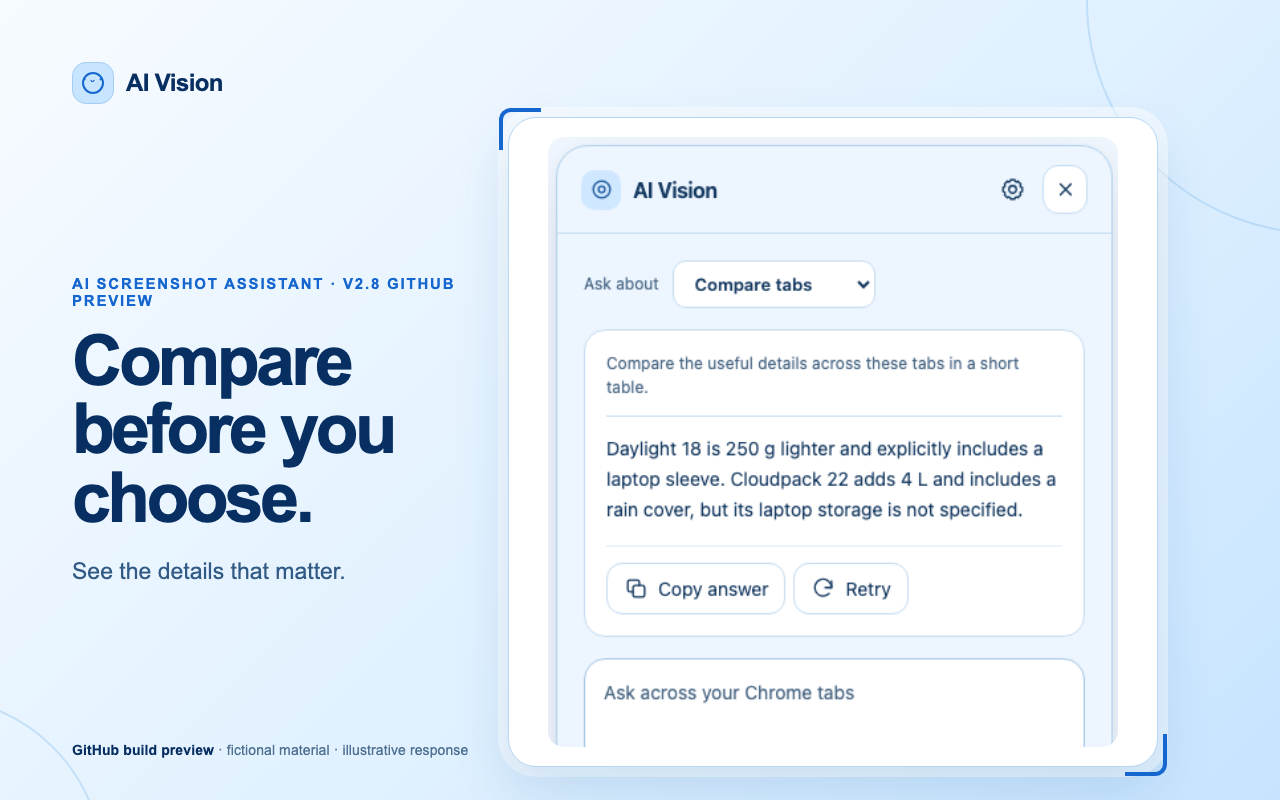
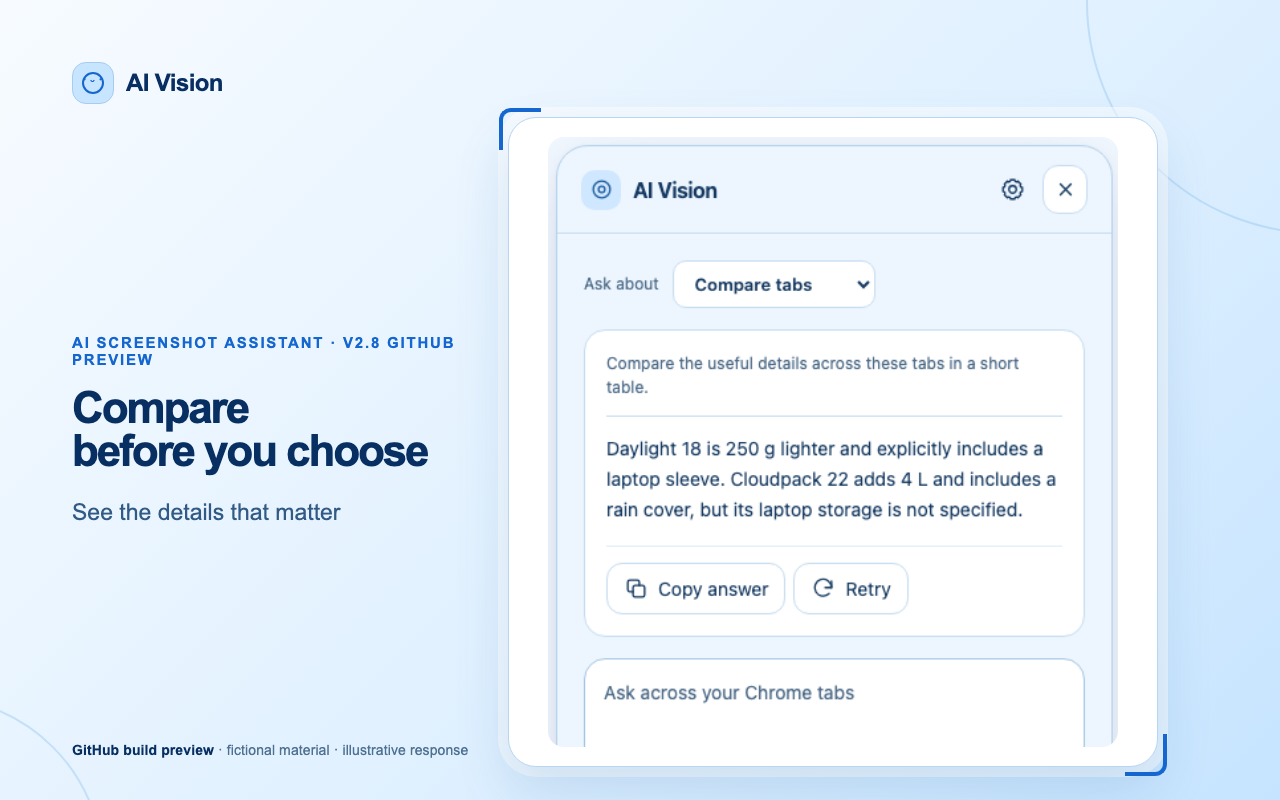
Clean v2.8 artwork headlines (#17)

Changed region(s): [[0.0312, 0.3438, 0.3438, 0.6562], [0.0625, 0.6875, 0.2812, 0.75]]

diff --git a/release-assets-v2.8/store-artwork.html b/release-assets-v2.8/store-artwork.html
@@ -83,6 +83,20 @@
       z-index: 1;
     }
     .copy { align-self: center; padding-bottom: 22px; }
+    .copy h1.compact-title {
+      font-size: 58px;
+      letter-spacing: -2.8px;
+    }
+    .copy h1.compact-title.title-5 {
+      max-width: 430px;
+      font-size: 50px;
+      letter-spacing: -2.4px;
+    }
+    .copy h1.compact-title.title-4 {
+      max-width: 450px;
+      font-size: 44px;
+      letter-spacing: -2.1px;
+    }
     .eyebrow {
       margin: 0 0 18px;
       color: var(--cobalt);
@@ -170,7 +184,7 @@
     .promo-copy { position: relative; z-index: 1; max-width: 520px; }
     .promo .brand { color: #fff; margin-bottom: 48px; }
     .promo .lens-mark { background: #ffffff2b; border-color: #ffffff77; color: #fff; }
-    .promo h2 { margin: 0; max-width: 510px; font-size: 72px; line-height: .98; letter-spacing: -3px; }
+    .promo h2 { margin: 0; max-width: 540px; font-size: 60px; line-height: .98; letter-spacing: -2.8px; }
     .promo p { margin: 22px 0 0; font-size: 23px; line-height: 1.35; color: #eff8ff; }
     .promo-small {
       width: 440px;
@@ -196,19 +210,21 @@
     const slide = params.get('slide') || '1';
     const promo = params.get('promo');
     const source = {
-      '1': { title: 'Select it.\nUnderstand it.', subline: 'A clear answer, then a follow-up.', image: 'source/extension-answer.png' },
-      '2': { title: 'Turn images\ninto text.', subline: 'Readable text you can copy.', image: 'source/extension-text-extraction.png' },
-      '3': { title: 'Get the\nmain points.', subline: 'A short summary beside the page.', image: 'source/extension-page.png' },
-      '4': { title: 'Compare before\nyou choose.', subline: 'See the details that matter.', image: 'source/extension-tabs.png' },
-      '5': { title: 'Your key.\nYour first answer.', subline: 'Save once, then start with a screenshot.', image: 'source/extension-key-setup.png' }
+      '1': { title: 'Select it\nUnderstand it', subline: 'A clear answer then a follow-up', image: 'source/extension-answer.png' },
+      '2': { title: 'Turn images\ninto text', subline: 'Readable text you can copy', image: 'source/extension-text-extraction.png' },
+      '3': { title: 'Get the\nmain points', subline: 'A short summary beside the page', image: 'source/extension-page.png' },
+      '4': { title: 'Compare\nbefore you choose', subline: 'See the details that matter', image: 'source/extension-tabs.png' },
+      '5': { title: 'Your key\nYour first answer', subline: 'Save once then start with a screenshot', image: 'source/extension-key-setup.png' }
     };
     const root = document.querySelector('#art');
     if (promo === 'marquee' || promo === 'small') {
       root.className = `promo ${promo === 'small' ? 'promo-small' : ''}`;
-      root.innerHTML = `<div class="promo-copy"><div class="brand"><span class="lens-mark" aria-hidden="true"></span><span>AI Vision</span></div><h2>${promo === 'small' ? 'See it.\nAsk it.' : 'Understand what\'s\nin front of you.'}</h2><p>${promo === 'small' ? 'A friendly screenshot assistant for Chrome.' : 'Select a screenshot, ask Gemini, and keep moving.'}</p></div>`;
+      const promoTitle = promo === 'small' ? 'See it\nAsk it' : 'Understand what\'s\nin front of you';
+      root.innerHTML = `<div class="promo-copy"><div class="brand"><span class="lens-mark" aria-hidden="true"></span><span>AI Vision</span></div><h2>${promoTitle.replaceAll(/\n/g, '<br>')}</h2><p>${promo === 'small' ? 'A friendly screenshot assistant for Chrome' : 'Select a screenshot, ask Gemini, and keep moving'}</p></div>`;
     } else {
       const card = source[slide] || source['1'];
-      root.innerHTML = `<div class="brand"><span class="lens-mark" aria-hidden="true"></span><span>AI Vision</span></div><div class="content"><div class="copy"><p class="eyebrow">AI SCREENSHOT ASSISTANT · V2.8 GITHUB PREVIEW</p><h1>${card.title.replaceAll('\\n', '<br>')}</h1><p class="subline">${card.subline}</p></div><div class="capture-shell"><img class="capture" src="${card.image}" alt="Authentic AI Vision v2.8 interface preview"></div></div><p class="disclaimer"><strong>GitHub build preview</strong> · fictional material · illustrative response</p>`;
+      const titleClass = slide === '1' ? 'compact-title' : slide === '4' ? 'compact-title title-4' : slide === '5' ? 'compact-title title-5' : '';
+      root.innerHTML = `<div class="brand"><span class="lens-mark" aria-hidden="true"></span><span>AI Vision</span></div><div class="content"><div class="copy"><p class="eyebrow">AI SCREENSHOT ASSISTANT · V2.8 GITHUB PREVIEW</p><h1 class="${titleClass}">${card.title.replaceAll(/\n/g, '<br>')}</h1><p class="subline">${card.subline}</p></div><div class="capture-shell"><img class="capture" src="${card.image}" alt="Authentic AI Vision v2.8 interface preview"></div></div><p class="disclaimer"><strong>GitHub build preview</strong> · fictional material · illustrative response</p>`;
     }
   </script>
 </body>
